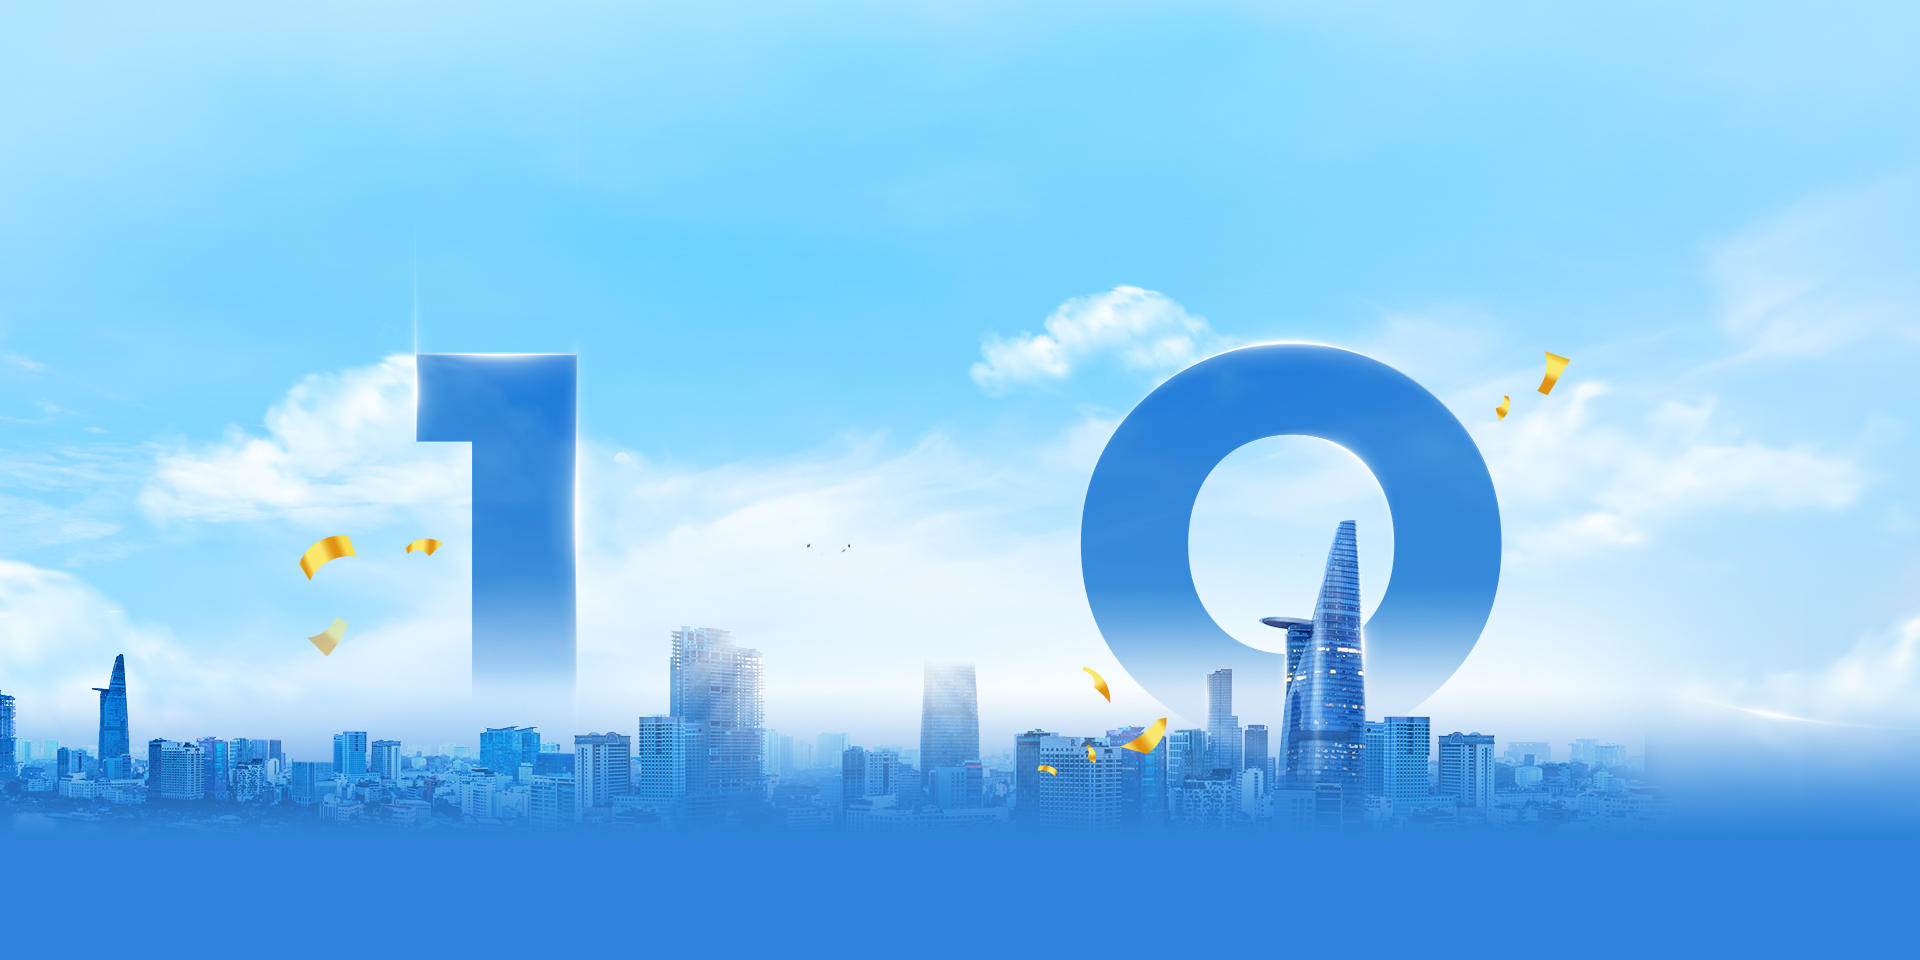
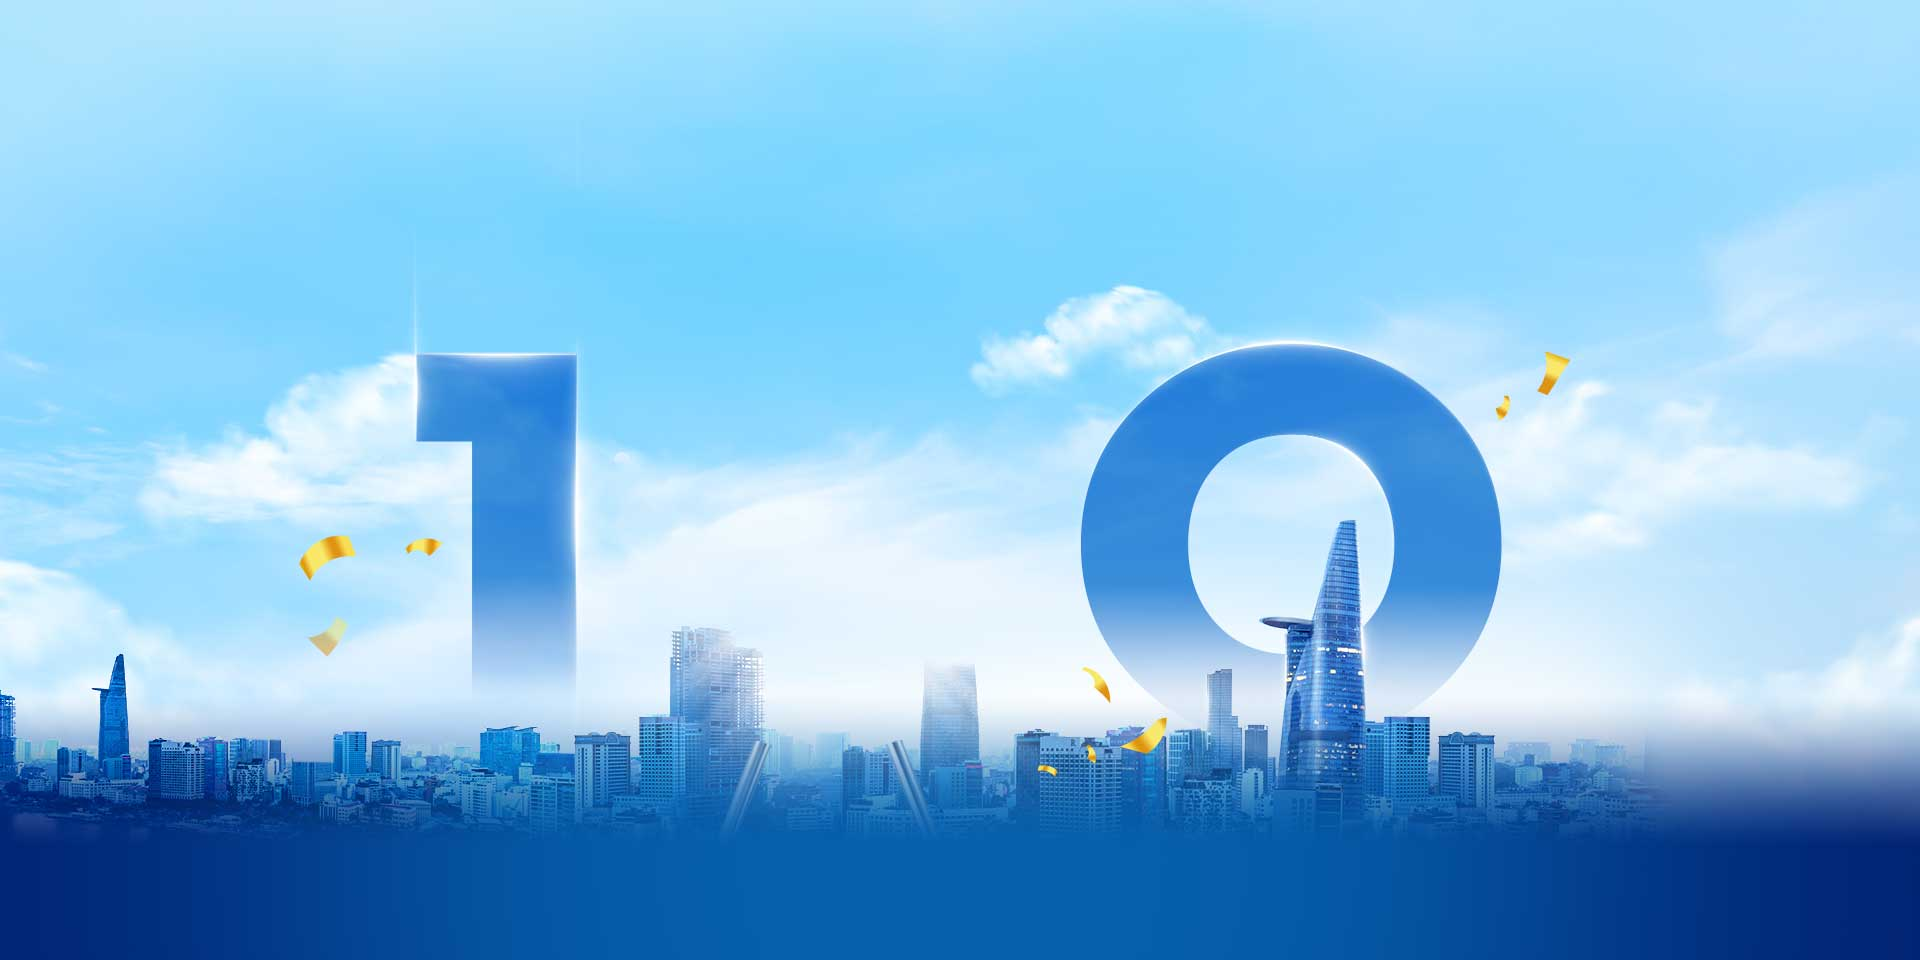
update feelback

Changed region(s): [[0.0, 0.7188, 1.0, 1.0], [0.1562, 0.5625, 0.1875, 0.5938]]

diff --git a/css/style.css b/css/style.css
@@ -1391,14 +1391,14 @@ p.error-2{
     border-radius: 0px;
     border: none;
     padding: 0px;
-    height: 34%;
+    height: 30%;
   }
   .page-main .bot-banner .md-number{
     position: absolute;
     left: 21.5%;
     bottom: 6%;
     width: 10.5%;
-    font-size: 3vw;
+    font-size: 2.5vw;
   }
   .page-thele .md-content .md-back{
     width: 15%;
@@ -1466,17 +1466,33 @@ p.error-2{
   .page-trungthuong-02 .md-content .main-content .md-col .md-left{
     width: 60%;
   }
+
   .page-trungthuong .bot-banner{
-    background: url(../images/vong-quay/line-bottom-2.png) no-repeat;
-    background-size: 100% 100%;
+    background: none;
+  }
+  .page-trungthuong-02 .bot-banner{
+   background: url(../images/vong-quay/line-bottom-3.png) no-repeat;
+   background-size: 100% 100%; 
+   position: fixed;
+   left: 0;
+   bottom: 0;
+   width: 100%;
   }
   .page-trungthuong .bot-banner .md-number{
-    left: 34.5%;
-    bottom: 3%;
+    left: 20%;
+    bottom: 10%;
     width: 10.5%;
   }
+
+  .page-main .bot-banner .md-text{
+    position: absolute;
+    float: none;
+    left: 20%;
+    bottom: 0%;
+    font-size: calc(4px + 1vw);
+  }
   .page-trungthuong-02 .md-content .main-content{
-    height: 90%;
+    height: 75%;
   }
   .page-trungthuong-des .md-content .main-content{
     overflow: visible;
@@ -1725,41 +1741,43 @@ p.error-2{
   .page-50k .md-content{
     padding: 0% 20% 0px;
   }
+  .page-50k .md-content .top-content{
+    float: left;
+    width: 45%;
+  }
+  .page-50k .md-content .main-content{
+    float: right;
+    width: 50%;
+  }
   .page-50k .md-content .main-content p{
     margin-bottom: 15px !important;
   }
   .page-50k .ui.checkbox{
     display: table;
-    margin: 30px auto 0 auto;
-  }
-  .page-50k .md-content .main-content .md-col{
-    float: left;
-    width: 48%;
-    margin-right: 4%;
-  }
-  .page-50k .md-content .main-content .md-col-2{
-    margin-right: 0;
+    margin: 30px 0px 0px 0px;
   }
   .page-50k .md-content .main-content .md-col-3{
     float: none;
   }
   .page-50k .md-content .main-content input[type='button']{
-    width: 50%;
-    display: table;
+    /*width: 50%;
+    display: table;*/
     margin: 20px auto 10px auto;
   }
   .page-50k .md-content .img-50k{
-    position: absolute;
+    /*position: absolute;
     right: 20%;
     top: 10%;
-    width: 18%;
+    width: 18%;*/
+    width: 60%;
+    margin: 0px 0px 20px;
   }
   .page-50k .md-content p{
     text-align: left;
   }
   .page-50k .md-content h3{
     text-align: left;
-    font-size: calc(12px + 1.5vw);
+    font-size: calc(8px + 1.5vw);
     margin-bottom: 5px;
   }
   .md-quetma{
@@ -3030,8 +3048,9 @@ p.error-2{
     font-size: 0.7vw;
      font-family: "Montserrat", sans-serif;
    }
-   .page-home{
-    background: #2d84da;
+   .page-main{
+    background: url(../images/vong-quay/line-bottom-4.png) no-repeat;
+    background-size: 100% 100%;
     min-height: calc(100vh - 10vw);
    }
    .page-home .top-banner{
@@ -3043,6 +3062,10 @@ p.error-2{
     top: 35.9vw;
     left: 0vw;
     width: 100%;
+   }
+   .page-trungthuong {
+     background: url(../images/vong-quay/line-bottom-5.png) no-repeat;
+     background-size: 100% 100%;
    }
 }
 

diff --git a/form-the-nap-50k.html b/form-the-nap-50k.html
@@ -49,12 +49,14 @@
     <div class="page-main page-thele page-nhanthuong page-50k">
         <img src="./images/bg-gift.png" alt="" class="bg-banner md-mobile">
         <img src="./images/img-thele-des.png" alt="" class="bg-banner md-desktop">
-        <div class="md-content">
+        <div class="md-content clearfix">
             <a href="#"><img src="./images/md-back.png" alt="" class="md-back"></a>
-            <img src="./images/qua-trung-thuong/50k.png" alt="" class="img-50k">
-            
-            <p>Đã nhận được quà tặng</p>
-            <h3>thẻ nạp điện thoại <span>50.000đ</span></h3>
+            <div class="top-content">
+                <img src="./images/qua-trung-thuong/50k.png" alt="" class="img-50k">
+                
+                <p>Đã nhận được quà tặng</p>
+                <h3>thẻ nạp điện thoại <span>50.000đ</span></h3>
+            </div>
             <div class="main-content">
                 <form action="">
                     <p>Nhập thông tin để nạp ngay vào tài khoản điện thoại của bạn:</p>

diff --git a/danh-sach-trung-thuong-02.html b/danh-sach-trung-thuong-02.html
@@ -47,7 +47,7 @@
     </header>
     <div class="page-main page-thele page-trungthuong page-trungthuong-02">
         <img src="./images/img-trungthuong.png" alt="" class="bg-banner md-mobile">
-        <img src="./images/img-thele-des.png" alt="" class="bg-banner md-desktop">
+        <img src="./images/img-trungthuong-des.png" alt="" class="bg-banner md-desktop">
         <div class="md-content">
             <a href="#"><img src="./images/md-back.png" alt="" class="md-back"></a>
             <h3>danh sách trúng giải thẻ nạp điện thoại & voucher</h3>
@@ -129,7 +129,7 @@
         </div>
         <div class="bot-banner clearfix">
             <p class="md-number" id="counter-number">12300</p>
-            <p class="md-text md-mobile">NGƯỜI CHƠI <span>ĐÃ NHẬN ĐƯỢC QUÀ</span></p>
+            <p class="md-text">NGƯỜI CHƠI <span>ĐÃ NHẬN ĐƯỢC QUÀ</span></p>
         </div>
     </div>
     <footer class="footer clearfix">

diff --git a/trang-chu.html b/trang-chu.html
@@ -57,7 +57,7 @@
                 <img class="vang-1" src="./images/vong-quay/vang-1.png">
                 <img class="vang-2" src="./images/vong-quay/vang-2.png">
                 <img class="vang-2-2 md-desktop" src="./images/vong-quay/vang-2-2.png">
-                <img class="bg-opacity md-desktop" src="./images/vong-quay/bg-opacity.png">
+               <!--  <img class="bg-opacity md-desktop" src="./images/vong-quay/bg-opacity.png"> -->
                 <img class="limbs" src="./images/vong-quay/limbs.png">
                 <img class="vang-3" src="./images/vong-quay/vang-3.png">
                 <img class="vang-5" src="./images/vong-quay/vang-5.png">

diff --git a/scripts/main.js b/scripts/main.js
@@ -97,8 +97,8 @@ App.Site = function () {
    var set_height = function(){
    function set_min_height_blk_home(){
         var min_height=$(window).height()- $(".page-header").height();
-        $(".page-home").css("max-height", min_height);
-        $(".page-home").css("min-height", min_height);
+        $(".page-main").css("max-height", min_height);
+        $(".page-main").css("min-height", min_height);
     }
     set_min_height_blk_home();
      $(window).resize(function(){

diff --git a/danh-sach-trung-thuong-01.html b/danh-sach-trung-thuong-01.html
@@ -80,7 +80,7 @@
         </div>
         <div class="bot-banner clearfix">
             <p class="md-number" id="counter-number">12300</p>
-            <p class="md-text md-mobile">NGƯỜI CHƠI <span>ĐÃ NHẬN ĐƯỢC QUÀ</span></p>
+            <p class="md-text">NGƯỜI CHƠI <span>ĐÃ NHẬN ĐƯỢC QUÀ</span></p>
         </div>
     </div>
     <footer class="footer clearfix">
